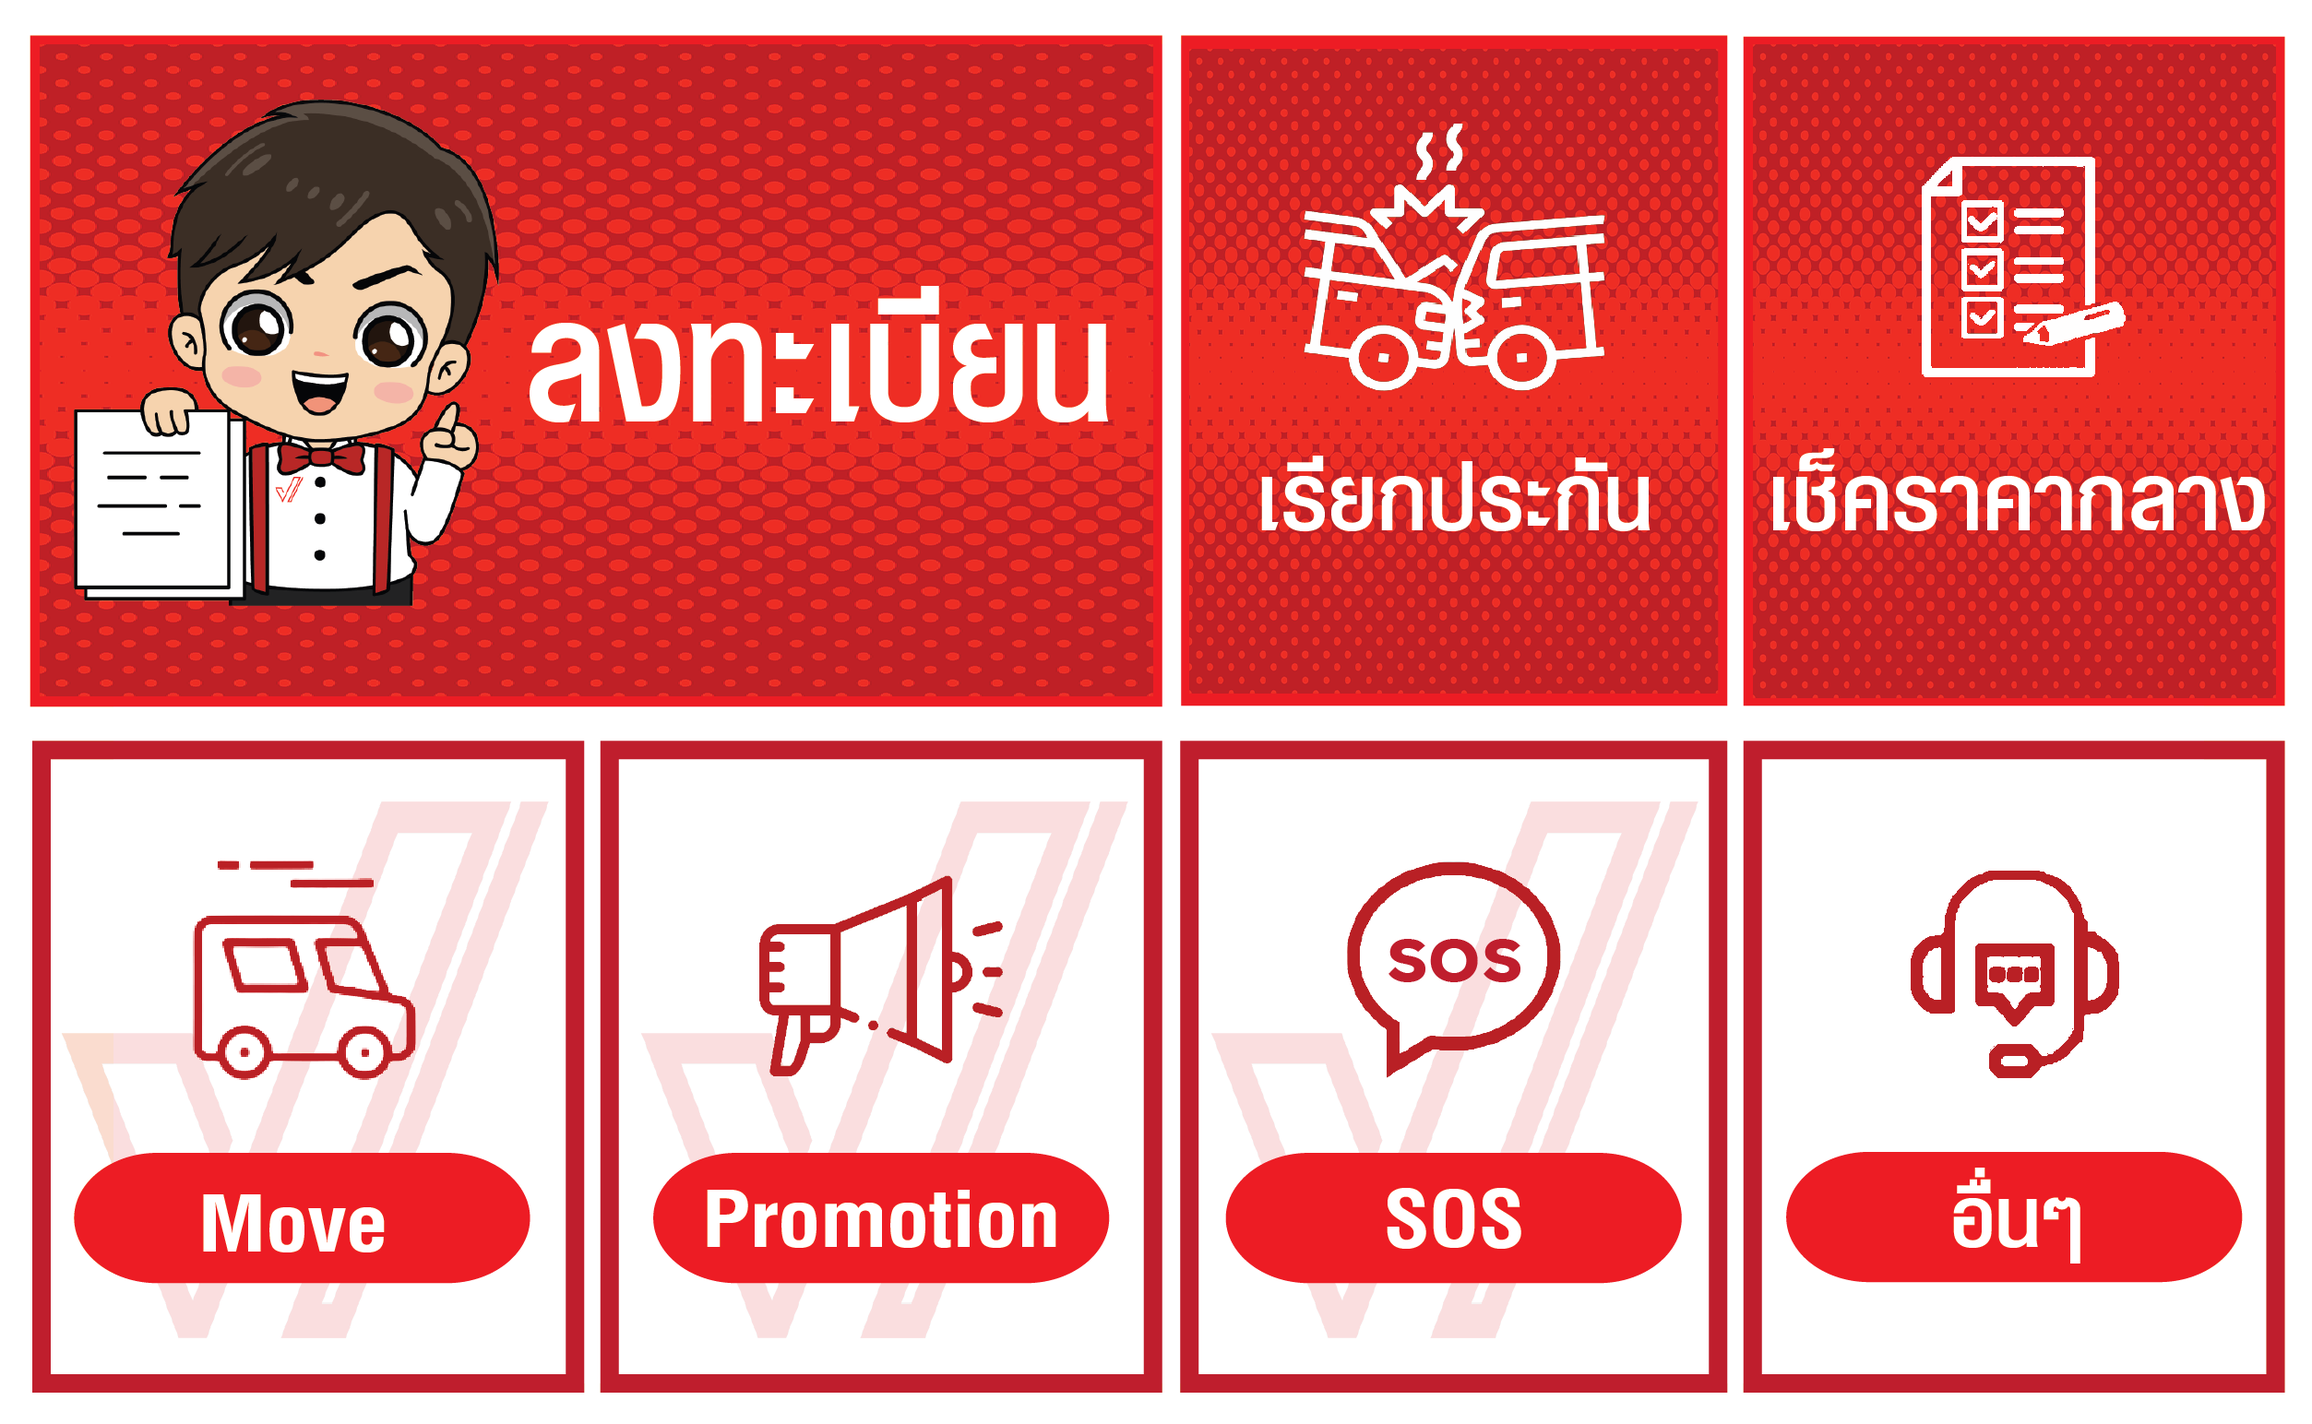
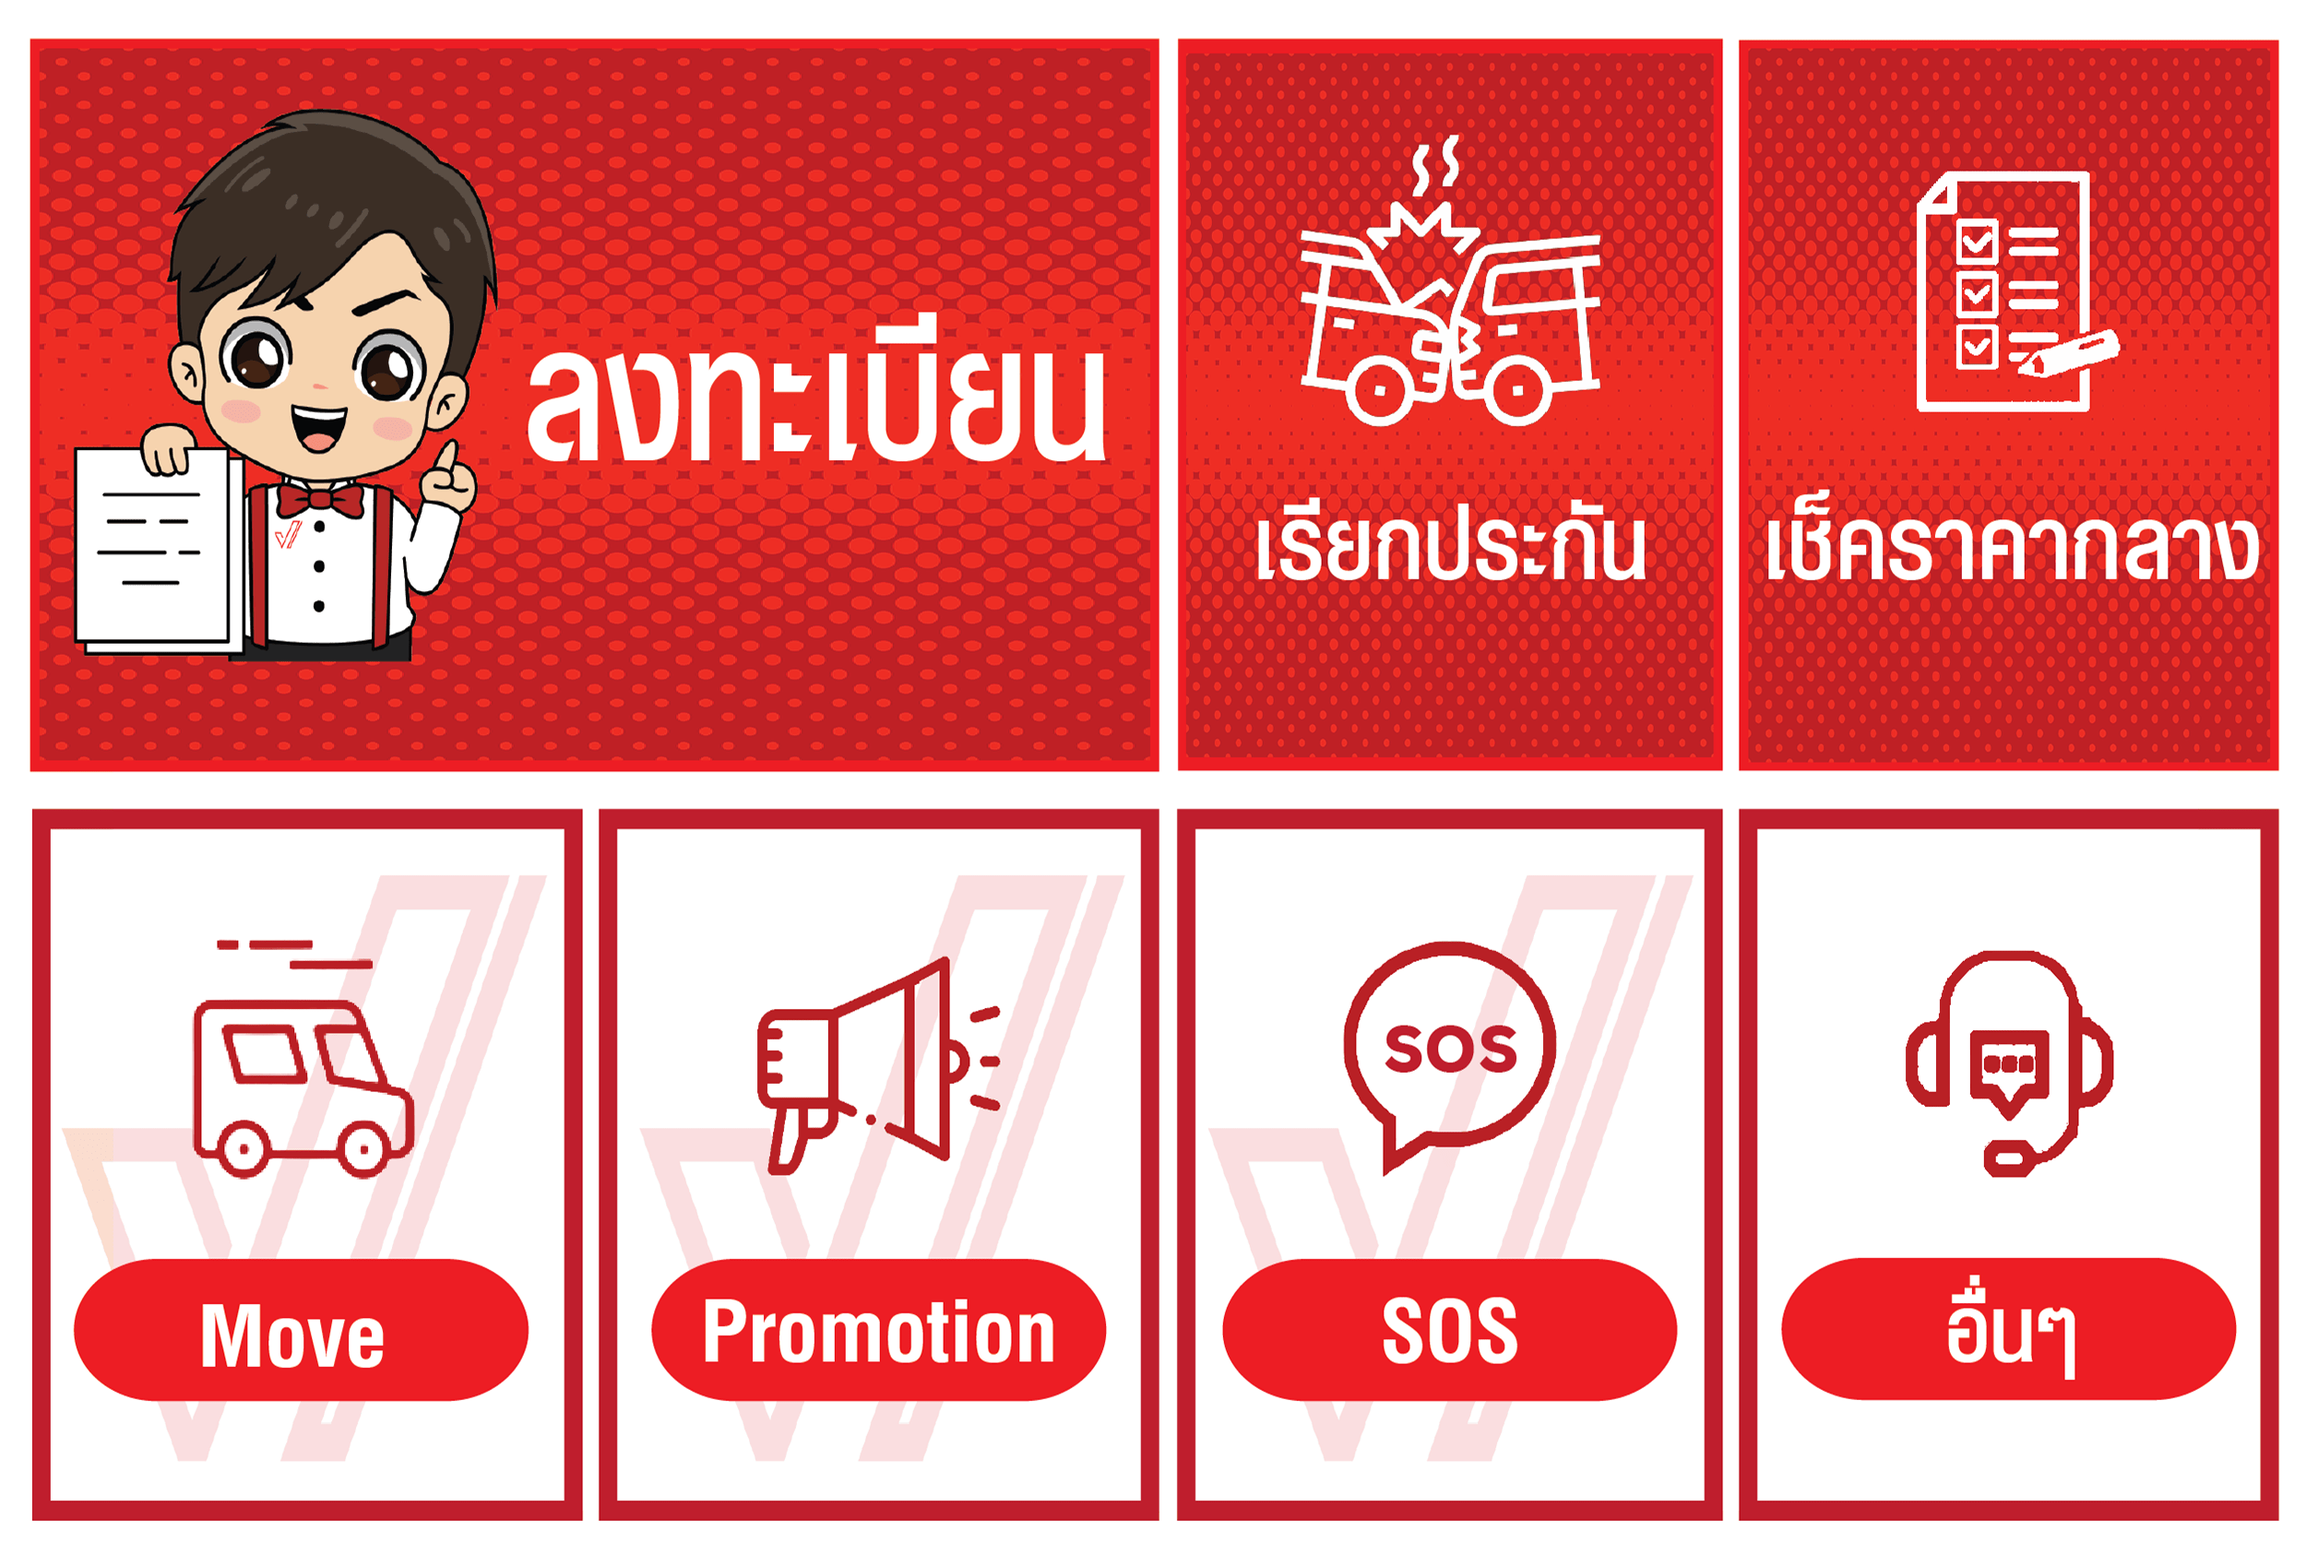
update

Changed region(s): [[0.8424, 0.1554, 0.9048, 0.1865], [0.0312, 0.4041, 0.0936, 0.4352], [0.8736, 0.2176, 0.9048, 0.2487]]

diff --git a/app/Http/Controllers/API/LineApiController.php b/app/Http/Controllers/API/LineApiController.php
@@ -223,7 +223,7 @@ class LineApiController extends Controller
         }else {
             switch ($user_language) {
                 case 'th':
-                    $richMenuId = "richmenu-c97702fad335082aad0b8a069d4a8e8f" ;
+                    $richMenuId = "richmenu-334265b3960f7d64096270c1e7e5bd46" ;
                     break;
                 case 'en':
                     $richMenuId = "richmenu-9194867623e5cf6233a7d894fc3f6b1a" ;
